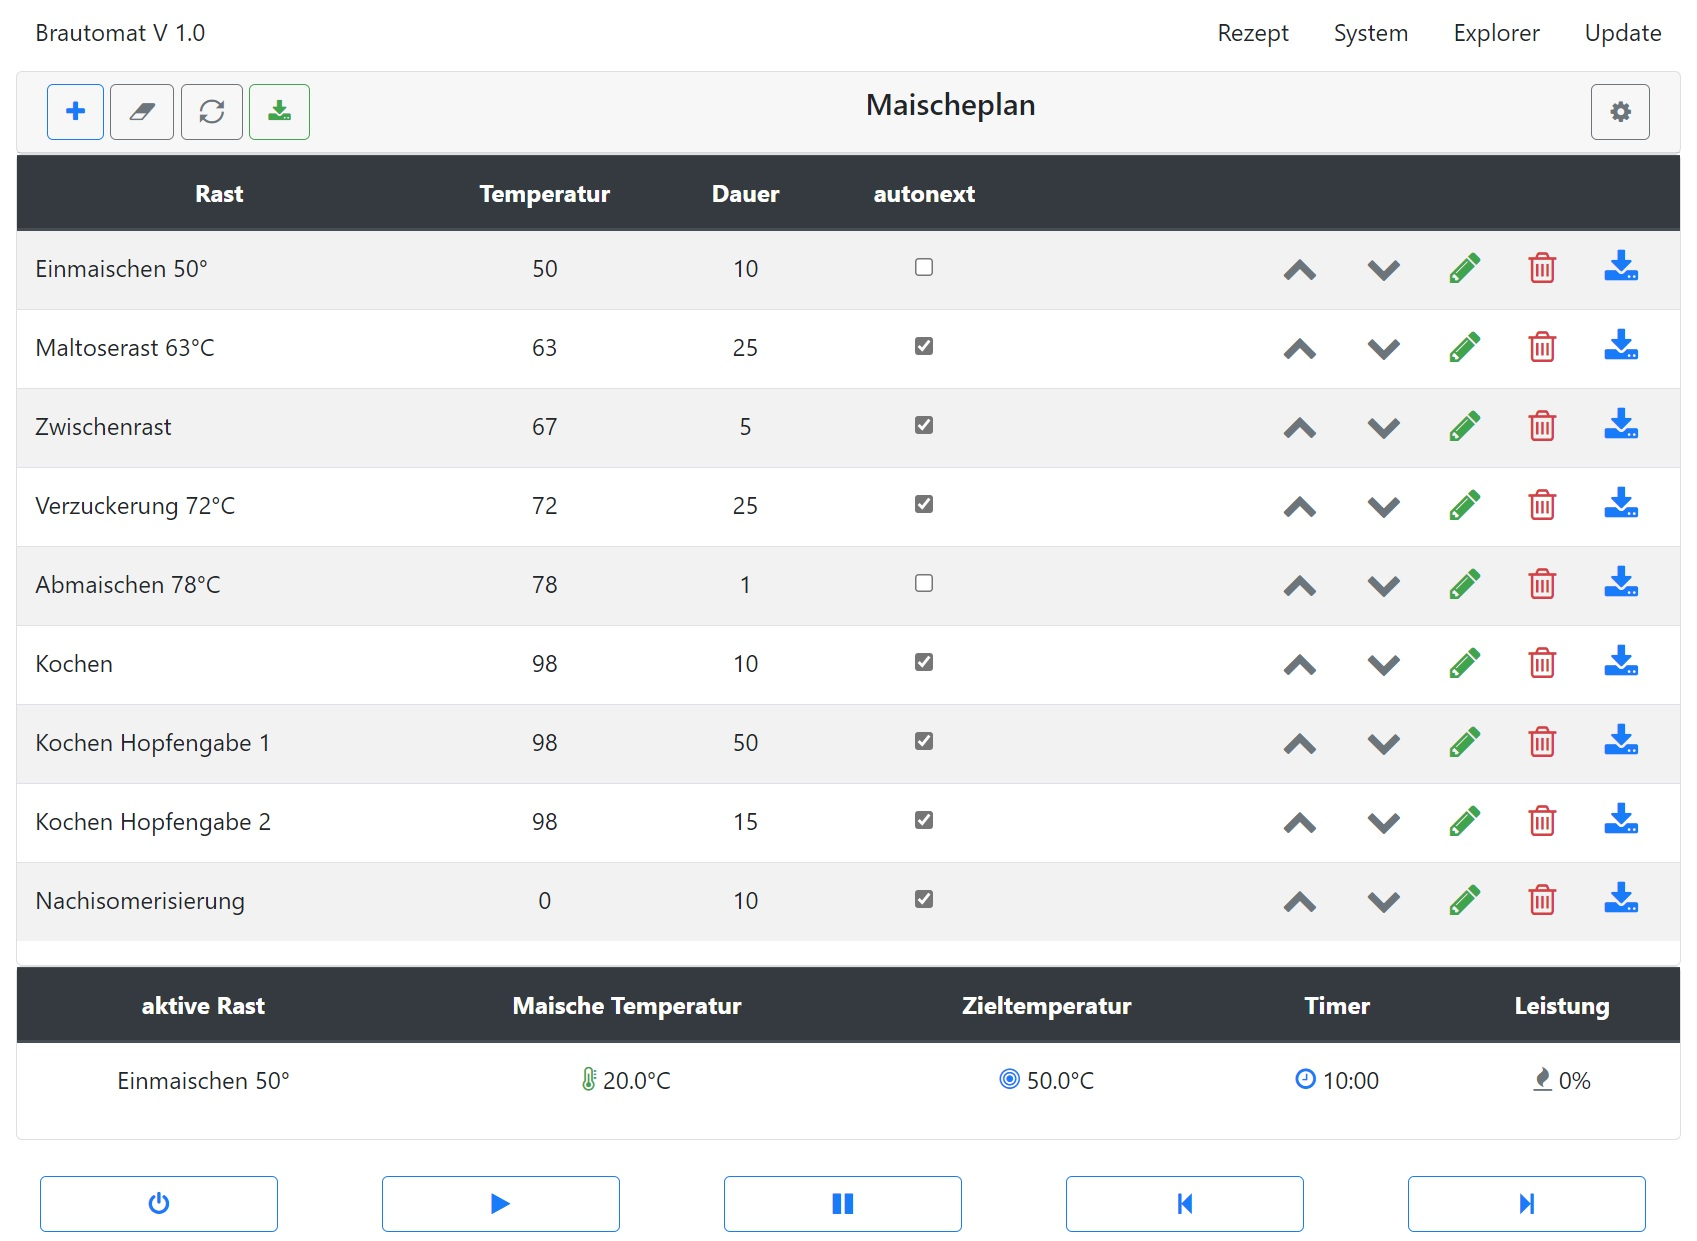
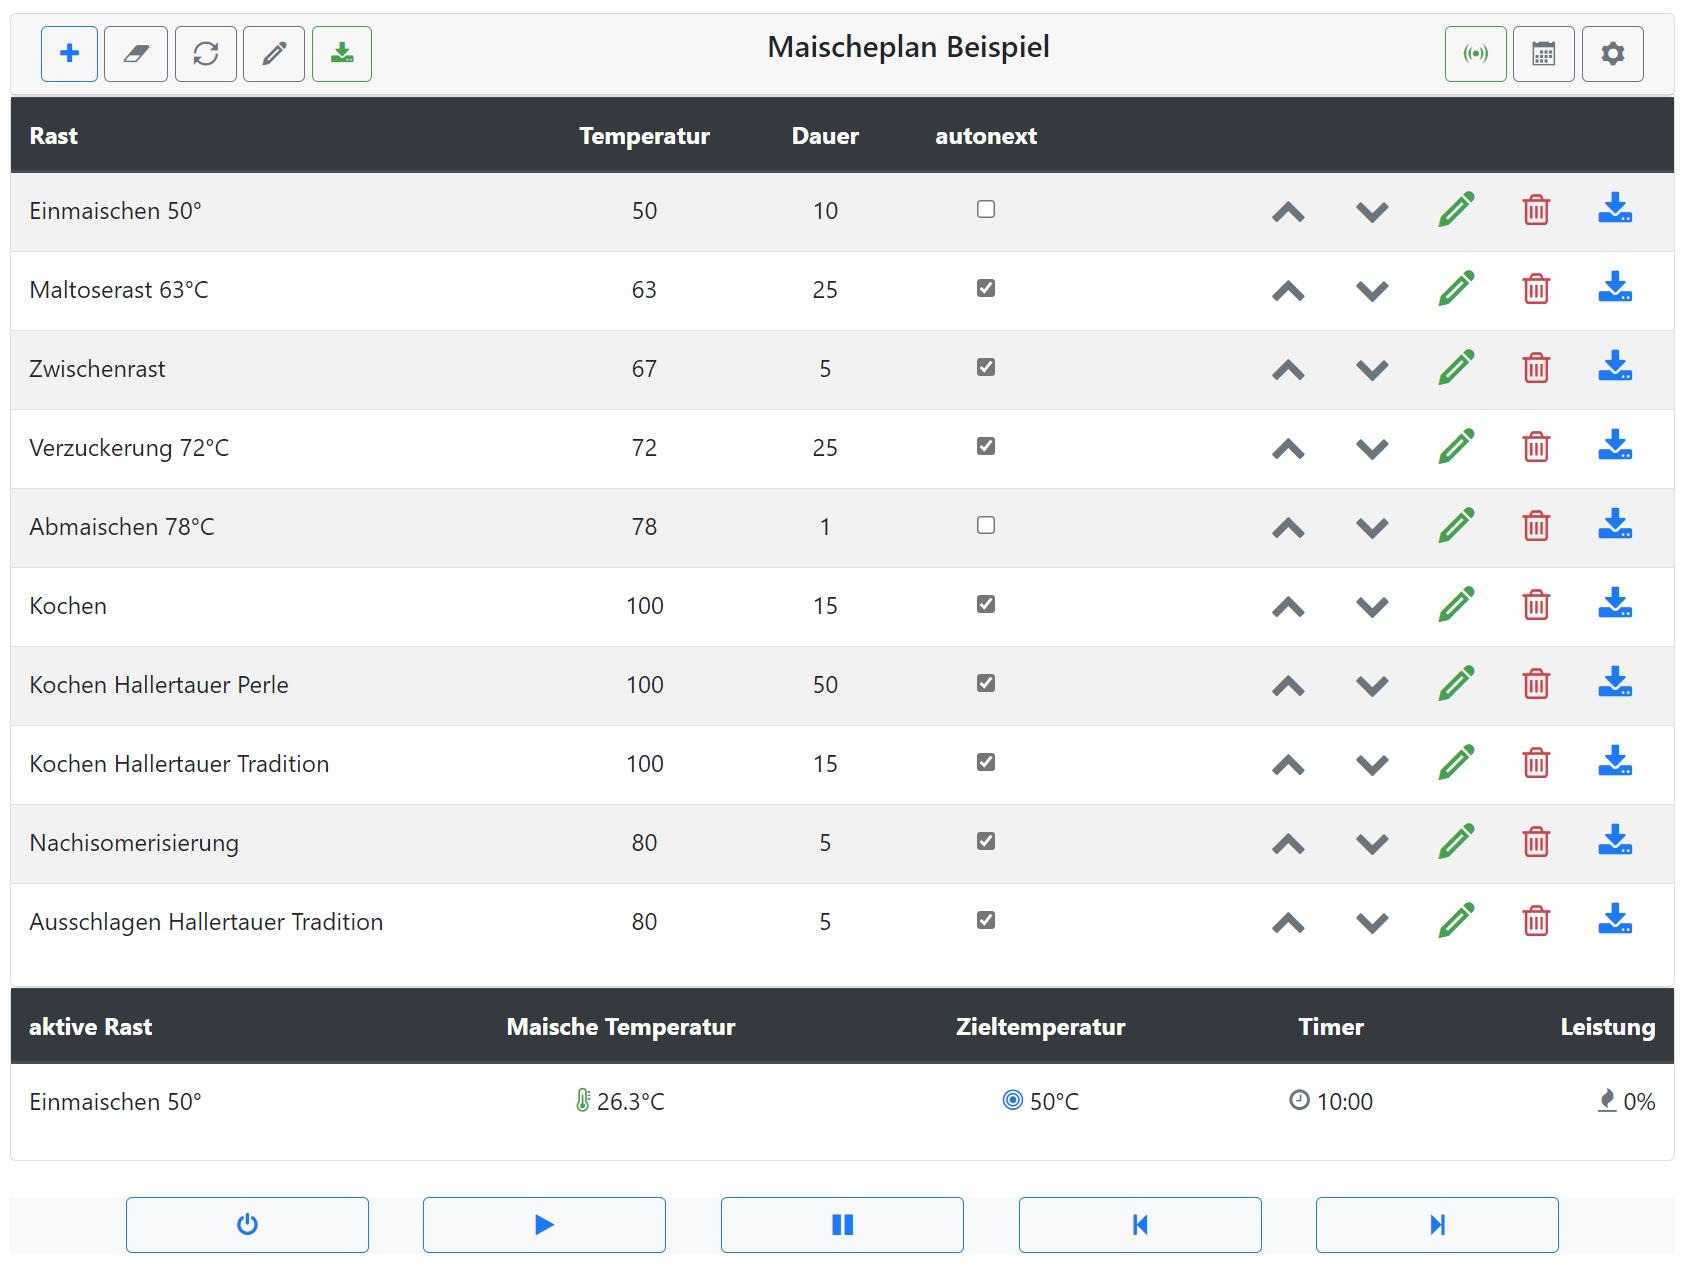
V 1.22a

diff --git a/docs/der-maischeplan/funktionen.md b/docs/der-maischeplan/funktionen.md
@@ -2,7 +2,7 @@
 
 Die folgende Beschreibung hat nicht das zugrunde liegende Rezept als Inhalt, sondern das Vorgehen beim Maischen mit dem Brautomat. Der Maischeplan hat eine Tabellenform. Diese Tabelle wird beim Maischen von oben nach unten abgearbeitet. In diesem Beispiel ist die Zeile "Einmaischen 50°C" der erste Maische-Schritt und "Nachisomerisierung" der letzte Maische-Schritt. Eine sehr wichtige Funktion im Maischeplan hat die Eigenschaft _autonext_.
 
-![Maischeplan](/docs/img/Maischeplan-autonext.jpg)
+![Maischeplan](/docs/img/Maischeplan.jpg)
 
 Zur Orientierung wird zunächst der Aufbau der Tabellenzeilen beschrieben. Jede Zeile der Tabelle hat diese Spalten:
 
@@ -19,7 +19,10 @@ Nach diesen vier Angaben zum Maische-Schritt hat jede Zeile Buttons zum Editiere
 * lösche diese Zeile
 * speichere die Zeile in die Tabelle
 
-Zusammen mit den Steuerelementen Power, Play, Pause, Forward und Backward ergibt sich eine einfache intuitiv zu bedienende Brausteuerung.\
+Die Symbole zum Editieren der Maischeschritte werden ausgeblendet, sobald der Brauprozess gestartet wird.\
+Zusammen mit den Steuerelementen Power, Play, Pause, Forward und Backward ergibt sich eine einfache intuitiv zu bedienende Brausteuerung.
+
+![Maischeplan](/docs/img/Maischeplan-autonext.jpg)
 
 Der zweite Schritt im Maischeplan mit dem Namen _Maltoserast 63°C_ hat als Rast-Temperatur 63°C und eine Rast-Dauer von 25 Minuten. Der Brautmoat steuert in diesem Schritt das Induktionskochfeld zunächst auf 63°C. Sobald diese 63°C erreicht sind, startet der Brautomat den Timer. Ein Rast-Timer ist eine Stoppuhr. Wenn diese Stoppuhr die Rast-Dauer von 25 Minuten erreicht hat, überprüft der Brautomat die Eigenschaft _autonext_. Wenn _autonext_ aktiviert ist, springt der Brautomat automatisch zum nächsten Schritt im Maischeplan. In diesem Bespiel zum Schritt _Zwischenrast_. Die Zwischenrast hat eine Rasttemperatur von 67°C. Automatisch erhöht der Brautomat die Leistung vom Induktionskochfeld, um die Rast-Temperatur zu erreichen. Der Masicheprozess verläuft bei aktiviertem autonext automatisch.
 
@@ -31,7 +34,7 @@ Als aktive Rast wird auf diesem Bild "Kochen" angezeigt. Die aktuelle Leistung w
 
 In dem Bild ist ebenfalls die Toast Nachricht "Klicke Play Button" dargestellt. Toasts können optional aktiviert werden und erscheinen mit Ton, sobald ein Schritt beendet oder eine manuelle Aktivität erforderlich ist.
 
-Im Bild Maischeplan sind das Einmaischen und das Abmaischen mit deaktiviertem autonext dargestellt. Das Einmaischen hat eigentlich keine Rast-Dauer und ist beendet, wenn das Schrot im Hauptgusswasser ist. Der Brauprozess wird dann mit Klick auf Play fortgesetzt.
+Im ersten Bild Maischeplan sind das Einmaischen und das Abmaischen mit deaktiviertem autonext dargestellt. Das Einmaischen hat eigentlich keine Rast-Dauer und ist beendet, wenn das Schrot im Hauptgusswasser ist. Der Brauprozess wird dann mit Klick auf den roten Play Button fortgesetzt.
 Das Abmaischen ist meist nach sehr kurzer Zeit (im Bild 1 Minute) beendet. Es folgt die Läuterruhe und das Läutern. Auch hier wird der Brauprozess erst forgesetzt, wenn der Play Button geklickt wird.
 
 _Tipp: bei deaktiviertem autonext am Rastende wird die GGM IDS abgeschaltet. Mit dem Pause Button wird die Rast-Zeit angehalten (Timer). Die GGM IDS bleibt eingeschaltet und hält die aktuelle Temperatur._
